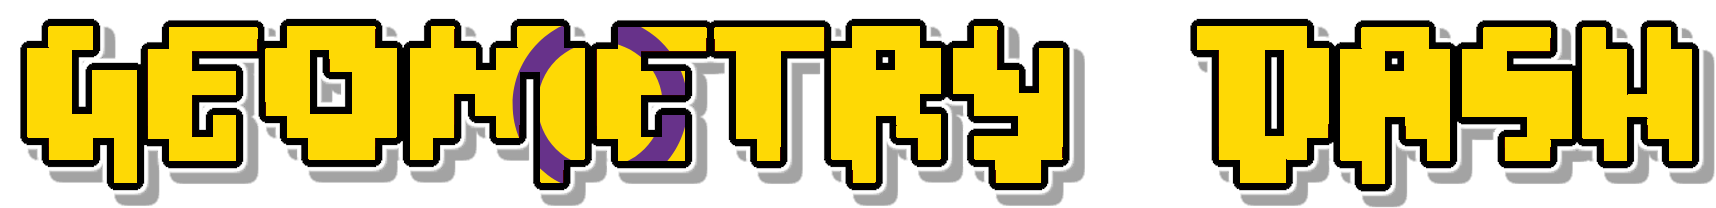
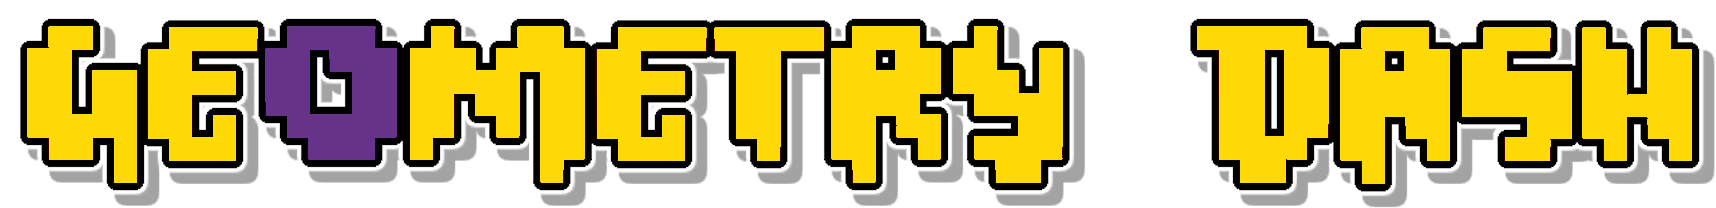
1.0.1

diff --git a/src/main.cpp b/src/main.cpp
@@ -22,7 +22,7 @@ class $modify(MyMenuLayer, MenuLayer) {
 		this->addChild(menu);
 
 		const int pride = Mod::get()->getSettingValue<int64_t>("pride");
-		if (pride >= 0 && pride <= 9) logo->initWithSpriteFrameName(fmt::format("{}.png"_spr, pride).c_str());
+		if (pride >= 0 && pride <= 10) logo->initWithSpriteFrameName(fmt::format("{}.png"_spr, pride).c_str());
 
         	return true;    
 	}

diff --git a/about.md b/about.md
@@ -1,15 +1,4 @@
 # Geometry Pride!
 
 Quick mod to change the menu logo to pride versions!
-Check the settings to change it!
-
-0: Lesbian
-1: Gay
-2: Bi
-3: Trans
-4: Non-Binary
-5: Intersex
-6: Asexual
-7: Pansexual
-8: Genderfluid
-9: Progress Flag
+Check the mod settings to change it!

diff --git a/changelog.md b/changelog.md
@@ -1,4 +1,5 @@
 # 1.0.1
 - Prevent crashes (thanks RayDeeUx :3)
+- change intersex flag (added flag accurate version for those who still want the old one)
 # 1.0.0
 - initial release
